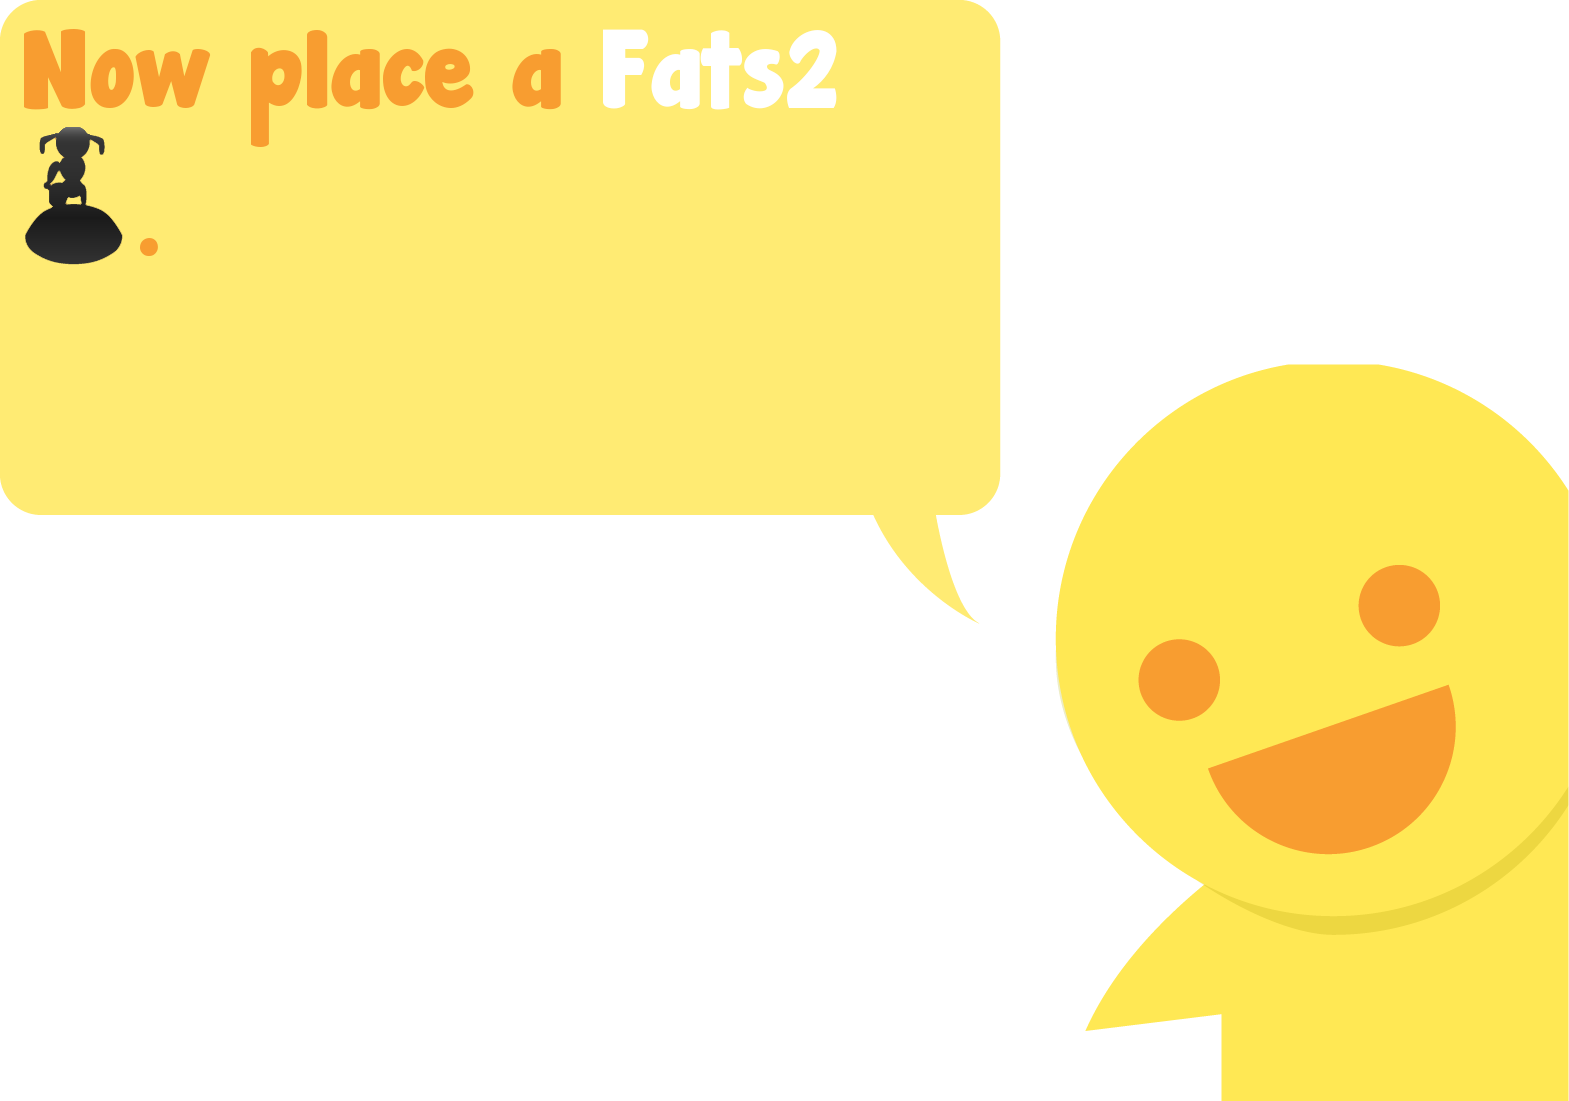
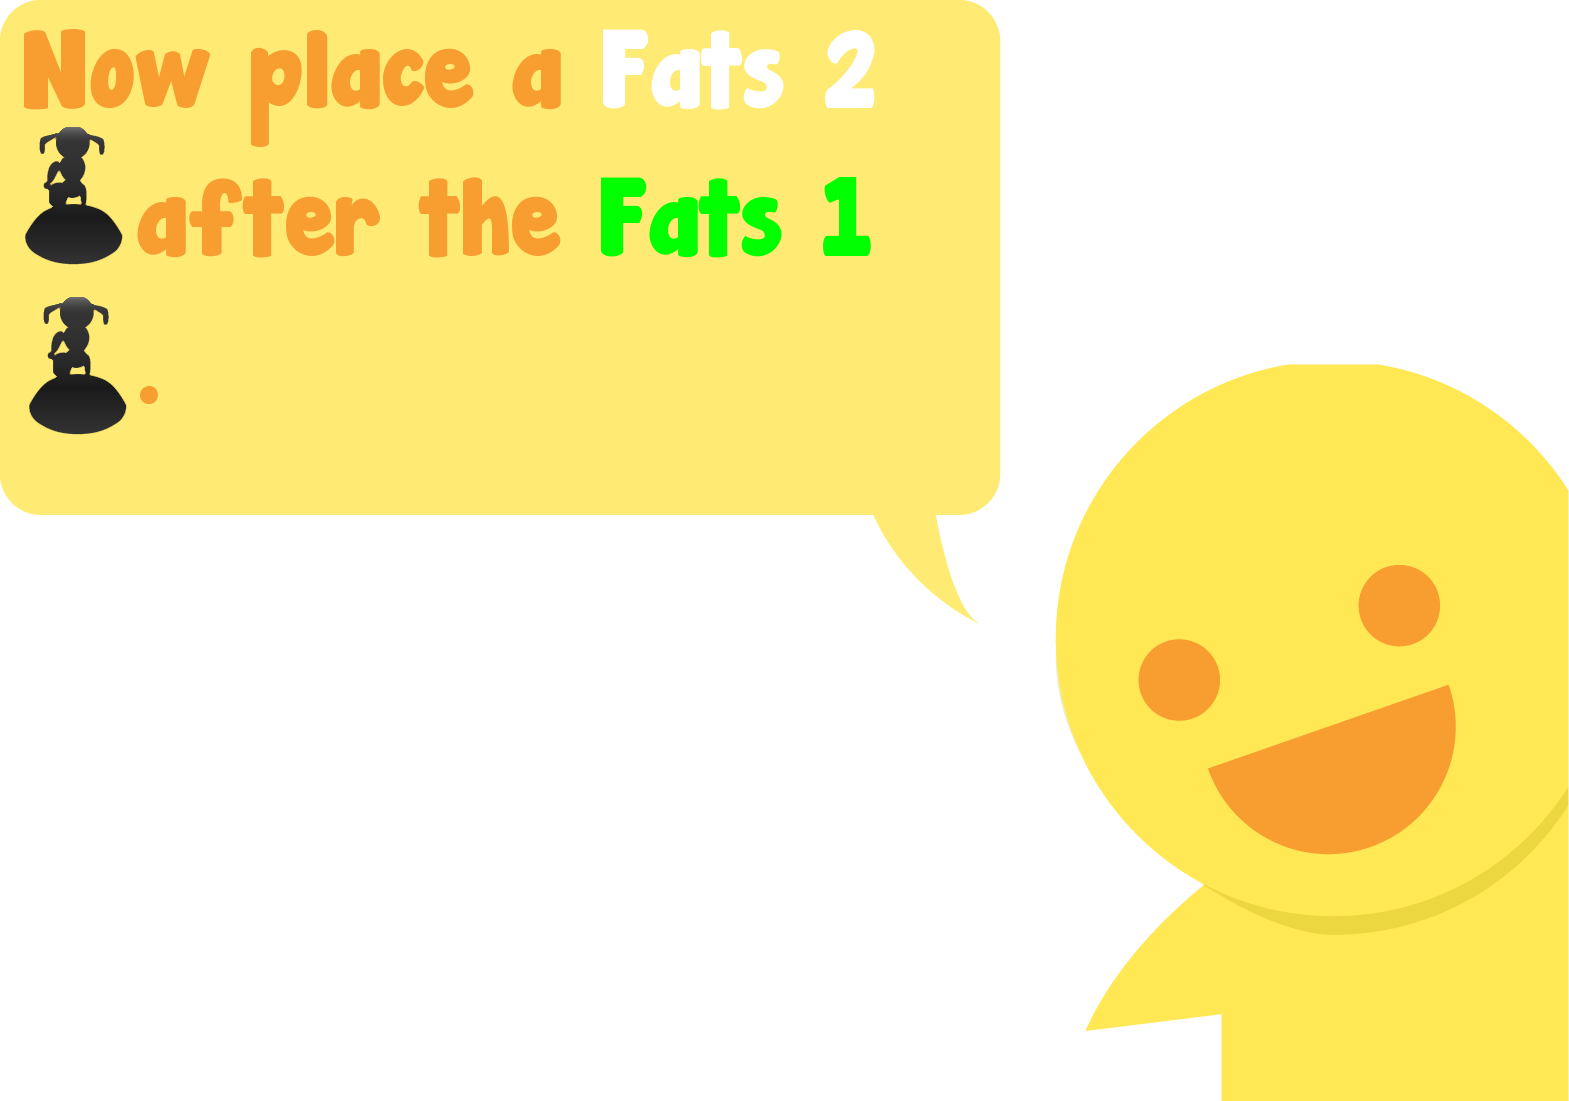
random bug fixes and art updates

Changed region(s): [[0.0625, 0.1544, 0.5621, 0.247], [0.0, 0.247, 0.1249, 0.4015], [0.4997, 0.0309, 0.5621, 0.1235]]

diff --git a/Assets/Scripts/Storyboard/Mouth Storyboard/TextForMouthStory.cs b/Assets/Scripts/Storyboard/Mouth Storyboard/TextForMouthStory.cs
@@ -9,6 +9,7 @@ public class TextForMouthStory : MonoBehaviour
 	StoryboardHandler mouthStoryboard;
 	private string[] text;
 	private float timer;
+	private bool resetTimerPage2, resetTimerPage3;
 
 	// Use this for initialization
 	void Start () 
@@ -44,21 +45,54 @@ public class TextForMouthStory : MonoBehaviour
 			                 .15f*Screen.height), text[0], statsStyle);
 			timer = 0;
 		} 
-		
+
 		if (mouthStoryboard.getCurrPage() == 2)
 		{
-			if (timer < 4)
+			if (!resetTimerPage2)
+			{
+				timer = 0;
+				resetTimerPage2 = true;
+			}
+
+			if (timer < 5)
 			{
 				GUI.Box(new Rect(.05f*Screen.width, (625f/768f)*Screen.height, .9f*Screen.width,
-			    	             .15f*Screen.height), text[1], statsStyle);
-			} else if (timer < 11)
+				                 .15f*Screen.height), text[1], statsStyle);
+			} else if (timer < 18)
 			{
 				GUI.Box(new Rect(.05f*Screen.width, (625f/768f)*Screen.height, .9f*Screen.width,
-				                 .15f*Screen.height), text[2], statsStyle);
+				                 .17f*Screen.height), text[2], statsStyle);
+			} else if (timer < 28)
+			{
+				GUI.Box(new Rect(.05f*Screen.width, (625f/768f)*Screen.height, .9f*Screen.width,
+				                  .15f*Screen.height), text[3], statsStyle);
 			} else
 			{
 				GUI.Box(new Rect(.05f*Screen.width, (625f/768f)*Screen.height, .9f*Screen.width,
-				                 .15f*Screen.height), text[3], statsStyle);
+				                 .15f*Screen.height), text[4], statsStyle);
+			}
+		}
+
+		if (mouthStoryboard.getCurrPage() == 3)
+		{
+			if (!resetTimerPage3)
+			{
+				timer = 0;
+				resetTimerPage3 = true;
+			}
+
+			if (timer < 4)
+			{
+				GUI.Box(new Rect(.05f*Screen.width, (625f/768f)*Screen.height, .9f*Screen.width,
+			    	             .15f*Screen.height), text[5], statsStyle);
+			} else if (timer < 11)
+			{
+				GUI.Box(new Rect(.05f*Screen.width, (625f/768f)*Screen.height, .9f*Screen.width,
+				                 .15f*Screen.height), text[6], statsStyle);
+			} else
+			{
+				GUI.Box(new Rect(.05f*Screen.width, (625f/768f)*Screen.height, .9f*Screen.width,
+				                 .15f*Screen.height), text[7], statsStyle);
 			}
 		}		
 	}

diff --git a/Assets/Scripts/SmallIntestine/IntestineGameManager.cs b/Assets/Scripts/SmallIntestine/IntestineGameManager.cs
@@ -115,7 +115,14 @@ public class IntestineGameManager : MonoBehaviour
 			SmallIntestineLoadLevelCounter  level = chooseBackground.GetComponent<SmallIntestineLoadLevelCounter>();
 	
 			level.nextLevel();		// increase the level count on the load level script
-			Application.LoadLevel("SmallIntestineStats");	// load the si stats screen
+
+			if (Application.loadedLevelName != "SmallIntestineTutorial")
+			{
+				Application.LoadLevel("SmallIntestineStats");	// load the si stats screen
+			} else
+			{
+				Application.LoadLevel("LoadLevelSmallIntestine");	// otherwise load the next level
+			}
 		}
 
 		// delay for setting sell to false to allow for race conditions due to order of execution issues
